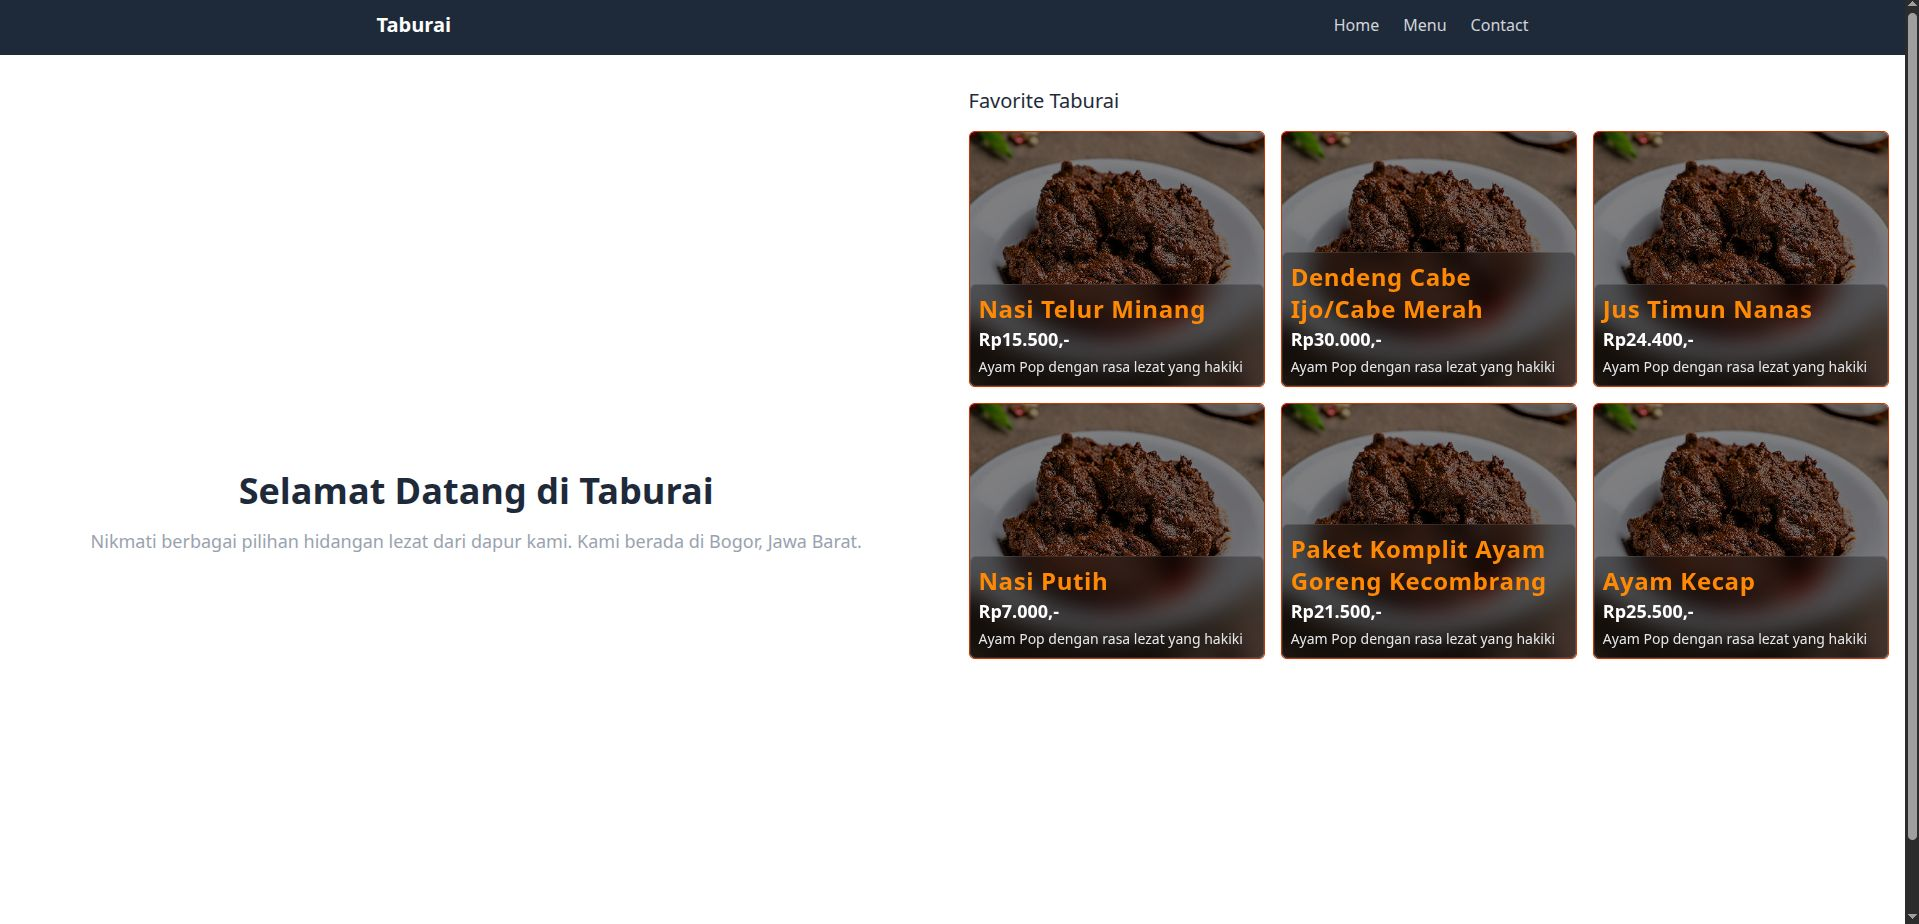
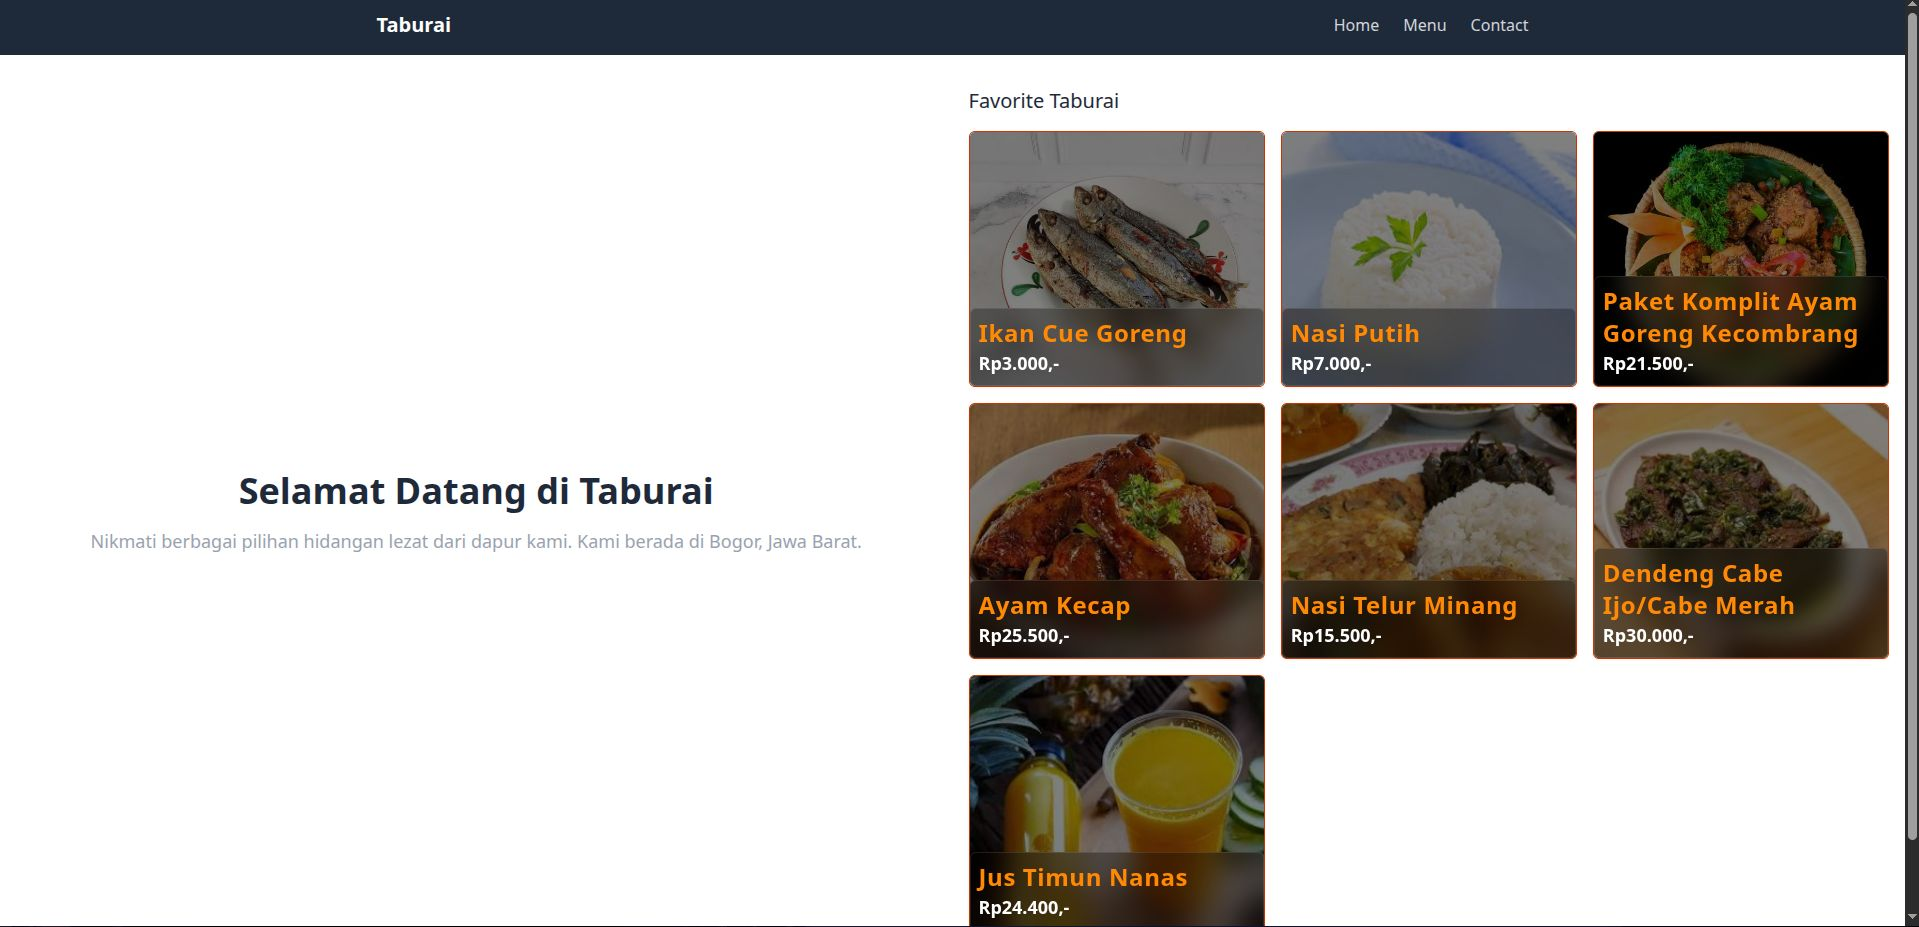
fix: images and cols

Changed region(s): [[0.4919, 0.1212, 0.9838, 1.0], [0.0615, 0.5758, 0.4612, 0.6061], [0.123, 0.5152, 0.3689, 0.5455]]

diff --git a/src/pages/Menu.tsx b/src/pages/Menu.tsx
@@ -17,7 +17,7 @@ function Menu() {
       description: "Ayam Pop dengan rasa lezat yang hakiki",
       price: 10000,
       image:
-        "https://www.dapurkobe.co.id/wp-content/uploads/rendang-daging.jpg",
+        "https://encrypted-tbn0.gstatic.com/images?q=tbn:ANd9GcQLaZ2HaPDY5zEfKkbOdW2s3HB44KifPP8v7apGvgjSu8LCKGxm_J2hpTQ&s=10",
       stock: 5,
     },
     {
@@ -35,7 +35,7 @@ function Menu() {
       description: "Ayam Pop dengan rasa lezat yang hakiki",
       price: 13000,
       image:
-        "https://www.dapurkobe.co.id/wp-content/uploads/rendang-daging.jpg",
+        "https://encrypted-tbn0.gstatic.com/images?q=tbn:ANd9GcT1SCdDIYMJbBUFquqwMnyLx_jzh8_2Sqd6nNy53qwXCeg9aFn7DA6OI1I&s=10",
       stock: 5,
     },
     {
@@ -44,7 +44,7 @@ function Menu() {
       description: "Ayam Pop dengan rasa lezat yang hakiki",
       price: 3000,
       image:
-        "https://www.dapurkobe.co.id/wp-content/uploads/rendang-daging.jpg",
+        "https://encrypted-tbn0.gstatic.com/images?q=tbn:ANd9GcSwYXPJ8BDCIpoOCjVUKba8FGKISlEnp8jOtkLc0fok58CjoyhhrJBKykY&s=10",
       stock: 5,
     },
     {
@@ -53,7 +53,7 @@ function Menu() {
       description: "Ayam Pop dengan rasa lezat yang hakiki",
       price: 7000,
       image:
-        "https://www.dapurkobe.co.id/wp-content/uploads/rendang-daging.jpg",
+        "https://encrypted-tbn0.gstatic.com/images?q=tbn:ANd9GcR3gSix3tvnT4zUnT9X0W8jbj1Nj6OCS4Z99MvLciZ8xKWGE_f7j34jGQo&s=10",
       stock: 5,
     },
     {
@@ -62,7 +62,7 @@ function Menu() {
       description: "Ayam Pop dengan rasa lezat yang hakiki",
       price: 21500,
       image:
-        "https://www.dapurkobe.co.id/wp-content/uploads/rendang-daging.jpg",
+        "https://encrypted-tbn0.gstatic.com/images?q=tbn:ANd9GcRsDwni7EjY708FQ_8re10XKxLqoPsnzuzdXizwuYsyCr_QB4QuogHMRD0&s=10",
       stock: 5,
     },
     {
@@ -71,7 +71,7 @@ function Menu() {
       description: "Ayam Pop dengan rasa lezat yang hakiki",
       price: 25500,
       image:
-        "https://www.dapurkobe.co.id/wp-content/uploads/rendang-daging.jpg",
+        "https://encrypted-tbn0.gstatic.com/images?q=tbn:ANd9GcS8eFqoO00PE9jhAlA7V-_cQjT_7u_FF0W3AAvk0XI_Dvwn_PUpcdfLx6M&s=10",
       stock: 5,
     },
     {
@@ -80,7 +80,7 @@ function Menu() {
       description: "Ayam Pop dengan rasa lezat yang hakiki",
       price: 15500,
       image:
-        "https://www.dapurkobe.co.id/wp-content/uploads/rendang-daging.jpg",
+        "https://encrypted-tbn0.gstatic.com/images?q=tbn:ANd9GcTVz_lu77-A8MMKYxOg2xRKwmXMT5AJPpJicR8HdC8Sz1RXg7I9NQHG3_NV&s=10",
       stock: 5,
     },
     {
@@ -89,7 +89,7 @@ function Menu() {
       description: "Ayam Pop dengan rasa lezat yang hakiki",
       price: 30000,
       image:
-        "https://www.dapurkobe.co.id/wp-content/uploads/rendang-daging.jpg",
+        "https://encrypted-tbn0.gstatic.com/images?q=tbn:ANd9GcRIHVatm2fdYw0ciY9Bmrz3woh8HeXshkriRhrErdPyepbNiGYrtI33e-ay&s=10",
       stock: 5,
     },
     {
@@ -98,7 +98,7 @@ function Menu() {
       description: "Ayam Pop dengan rasa lezat yang hakiki",
       price: 24400,
       image:
-        "https://www.dapurkobe.co.id/wp-content/uploads/rendang-daging.jpg",
+        "https://encrypted-tbn0.gstatic.com/images?q=tbn:ANd9GcTE138CHmDA-PUo3LkX3ugxHSHPrJT-E2ummYNoQ0VuxWlnd7WZAXLZTy8&s=10",
       stock: 5,
     },
   ];
@@ -153,7 +153,7 @@ function Menu() {
         {filteredDishes.length === 0 ? (
           <p>No Dishes available.</p>
         ) : (
-          <div className="grid md:grid-cols-3 grid-cols-1 gap-4 ">
+          <div className="grid md:grid-cols-5 grid-cols-1 gap-4 ">
             {filteredDishes.map((item, index) => (
               <ProductCard item={item} key={index} />
             ))}

diff --git a/src/pages/Home.tsx b/src/pages/Home.tsx
@@ -2,27 +2,12 @@ import React from "react";
 import ProductCard from "../components/ProductCard";
 const dishes = [
   {
-    id: 8,
-    name: "Nasi Telur Minang",
+    id: 4,
+    name: "Ikan Cue Goreng",
     description: "Ayam Pop dengan rasa lezat yang hakiki",
-    price: 15500,
-    image: "https://www.dapurkobe.co.id/wp-content/uploads/rendang-daging.jpg",
-    stock: 5,
-  },
-  {
-    id: 9,
-    name: "Dendeng Cabe Ijo/Cabe Merah",
-    description: "Ayam Pop dengan rasa lezat yang hakiki",
-    price: 30000,
-    image: "https://www.dapurkobe.co.id/wp-content/uploads/rendang-daging.jpg",
-    stock: 5,
-  },
-  {
-    id: 10,
-    name: "Jus Timun Nanas",
-    description: "Ayam Pop dengan rasa lezat yang hakiki",
-    price: 24400,
-    image: "https://www.dapurkobe.co.id/wp-content/uploads/rendang-daging.jpg",
+    price: 3000,
+    image:
+      "https://encrypted-tbn0.gstatic.com/images?q=tbn:ANd9GcSwYXPJ8BDCIpoOCjVUKba8FGKISlEnp8jOtkLc0fok58CjoyhhrJBKykY&s=10",
     stock: 5,
   },
   {
@@ -30,7 +15,8 @@ const dishes = [
     name: "Nasi Putih",
     description: "Ayam Pop dengan rasa lezat yang hakiki",
     price: 7000,
-    image: "https://www.dapurkobe.co.id/wp-content/uploads/rendang-daging.jpg",
+    image:
+      "https://encrypted-tbn0.gstatic.com/images?q=tbn:ANd9GcR3gSix3tvnT4zUnT9X0W8jbj1Nj6OCS4Z99MvLciZ8xKWGE_f7j34jGQo&s=10",
     stock: 5,
   },
   {
@@ -38,7 +24,8 @@ const dishes = [
     name: "Paket Komplit Ayam Goreng Kecombrang",
     description: "Ayam Pop dengan rasa lezat yang hakiki",
     price: 21500,
-    image: "https://www.dapurkobe.co.id/wp-content/uploads/rendang-daging.jpg",
+    image:
+      "https://encrypted-tbn0.gstatic.com/images?q=tbn:ANd9GcRsDwni7EjY708FQ_8re10XKxLqoPsnzuzdXizwuYsyCr_QB4QuogHMRD0&s=10",
     stock: 5,
   },
   {
@@ -46,7 +33,35 @@ const dishes = [
     name: "Ayam Kecap",
     description: "Ayam Pop dengan rasa lezat yang hakiki",
     price: 25500,
-    image: "https://www.dapurkobe.co.id/wp-content/uploads/rendang-daging.jpg",
+    image:
+      "https://encrypted-tbn0.gstatic.com/images?q=tbn:ANd9GcS8eFqoO00PE9jhAlA7V-_cQjT_7u_FF0W3AAvk0XI_Dvwn_PUpcdfLx6M&s=10",
+    stock: 5,
+  },
+  {
+    id: 8,
+    name: "Nasi Telur Minang",
+    description: "Ayam Pop dengan rasa lezat yang hakiki",
+    price: 15500,
+    image:
+      "https://encrypted-tbn0.gstatic.com/images?q=tbn:ANd9GcTVz_lu77-A8MMKYxOg2xRKwmXMT5AJPpJicR8HdC8Sz1RXg7I9NQHG3_NV&s=10",
+    stock: 5,
+  },
+  {
+    id: 9,
+    name: "Dendeng Cabe Ijo/Cabe Merah",
+    description: "Ayam Pop dengan rasa lezat yang hakiki",
+    price: 30000,
+    image:
+      "https://encrypted-tbn0.gstatic.com/images?q=tbn:ANd9GcRIHVatm2fdYw0ciY9Bmrz3woh8HeXshkriRhrErdPyepbNiGYrtI33e-ay&s=10",
+    stock: 5,
+  },
+  {
+    id: 10,
+    name: "Jus Timun Nanas",
+    description: "Ayam Pop dengan rasa lezat yang hakiki",
+    price: 24400,
+    image:
+      "https://encrypted-tbn0.gstatic.com/images?q=tbn:ANd9GcTE138CHmDA-PUo3LkX3ugxHSHPrJT-E2ummYNoQ0VuxWlnd7WZAXLZTy8&s=10",
     stock: 5,
   },
 ];

diff --git a/src/components/ProductCard.tsx b/src/components/ProductCard.tsx
@@ -24,7 +24,7 @@ function ProductCard({ item }: ProductCardProps) {
         <span className="text-lg font-semibold text-white">
           Rp{item.price.toLocaleString("id-ID")},-
         </span>
-        <p className="text-sm mt-1 text-gray-200">{item.description}</p>
+        {/* <p className="text-sm mt-1 text-gray-200">{item.description}</p> */}
       </div>
     </div>
   );
